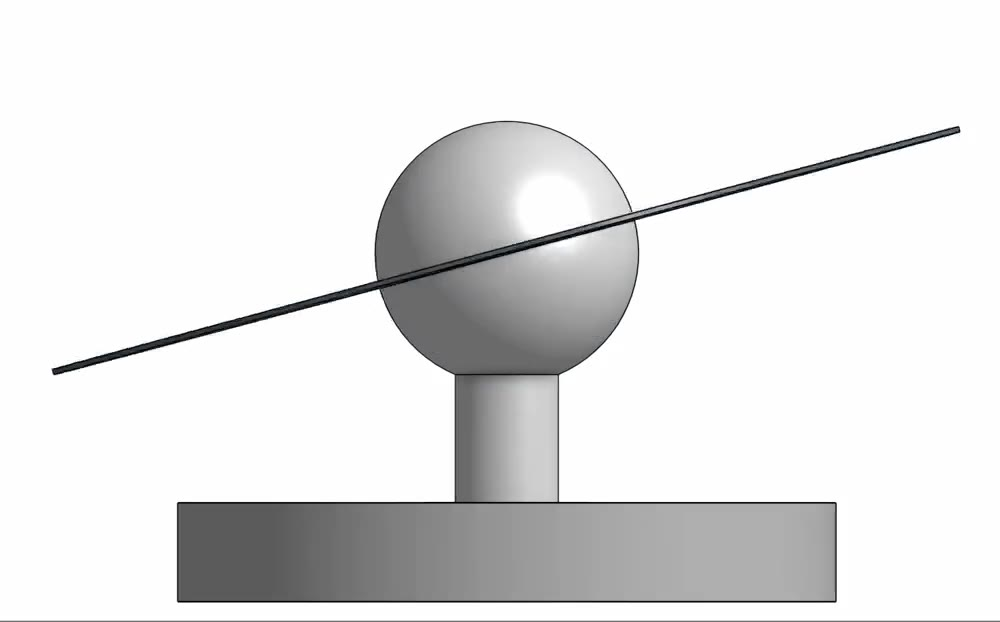
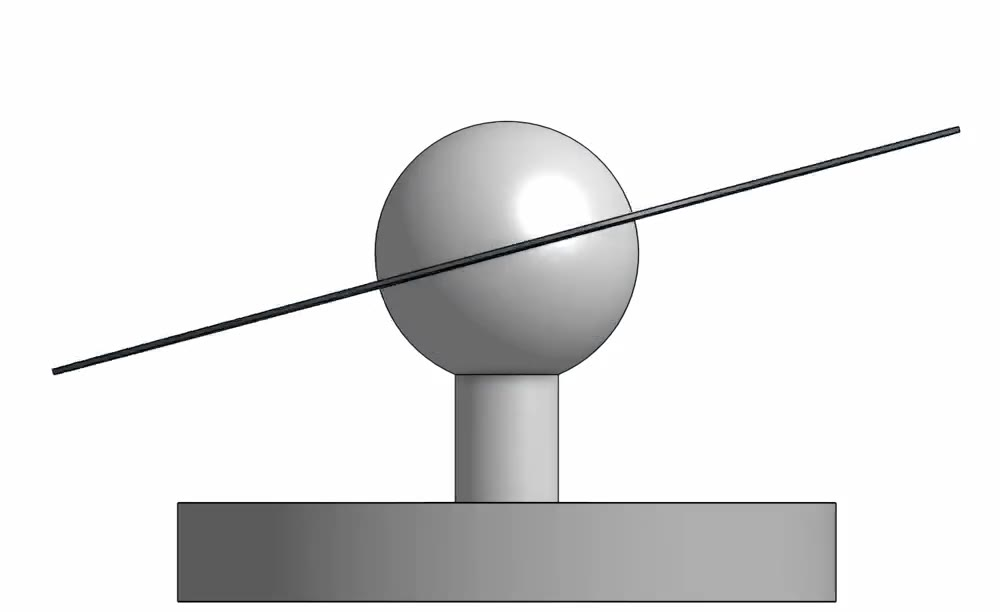
Saturn CAD video: crop off bottom line
Claude-Session: https://claude.ai/code/session_01ELhdABDRcghfKyptDK2XUK

diff --git a/js/projects.js b/js/projects.js
@@ -104,7 +104,7 @@ const PROJECTS = [
         { type: "media-rows", perRow: 3, items: ["assets/img/work/saturn-with-a-moon/saturn-p01.jpg", "assets/img/work/saturn-with-a-moon/saturn-p02.jpg", "assets/img/work/saturn-with-a-moon/saturn-p03.jpg"] }
       ] },
       { label: "CAD", blocks: [
-        { type: "media-rows", perRow: 3, items: ["assets/img/work/saturn-with-a-moon/saturn-p04.jpg", { video: "assets/img/work/saturn-with-a-moon/saturn-cad.mp4", poster: "assets/img/work/saturn-with-a-moon/saturn-cad-poster.jpg", w: 1000, h: 622 }, "assets/img/work/saturn-with-a-moon/saturn-p05.jpg"] }
+        { type: "media-rows", perRow: 3, items: ["assets/img/work/saturn-with-a-moon/saturn-p04.jpg", { video: "assets/img/work/saturn-with-a-moon/saturn-cad.mp4", poster: "assets/img/work/saturn-with-a-moon/saturn-cad-poster.jpg", w: 1000, h: 612 }, "assets/img/work/saturn-with-a-moon/saturn-p05.jpg"] }
       ] },
       { label: "Machining", blocks: [
         { type: "media-rows", perRow: 3, items: [
